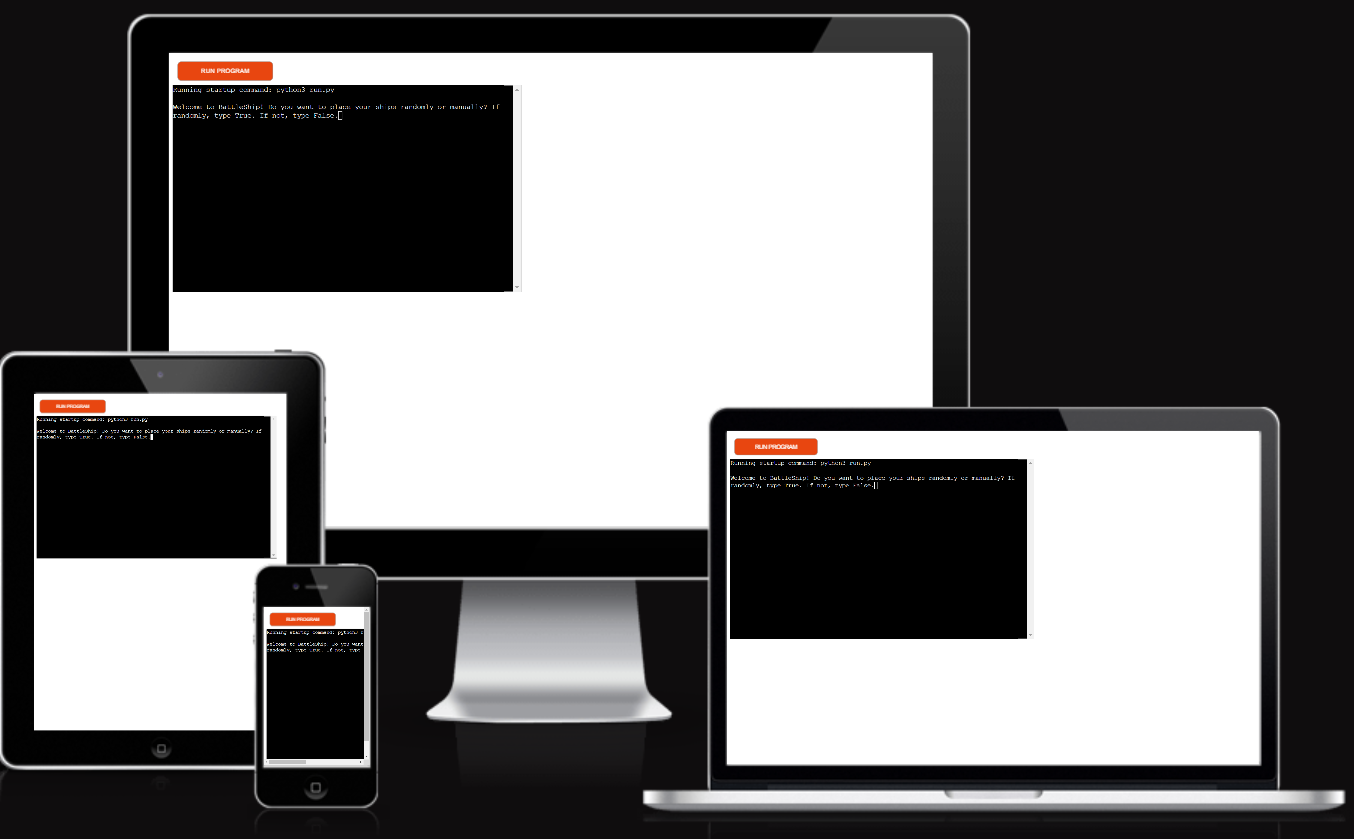
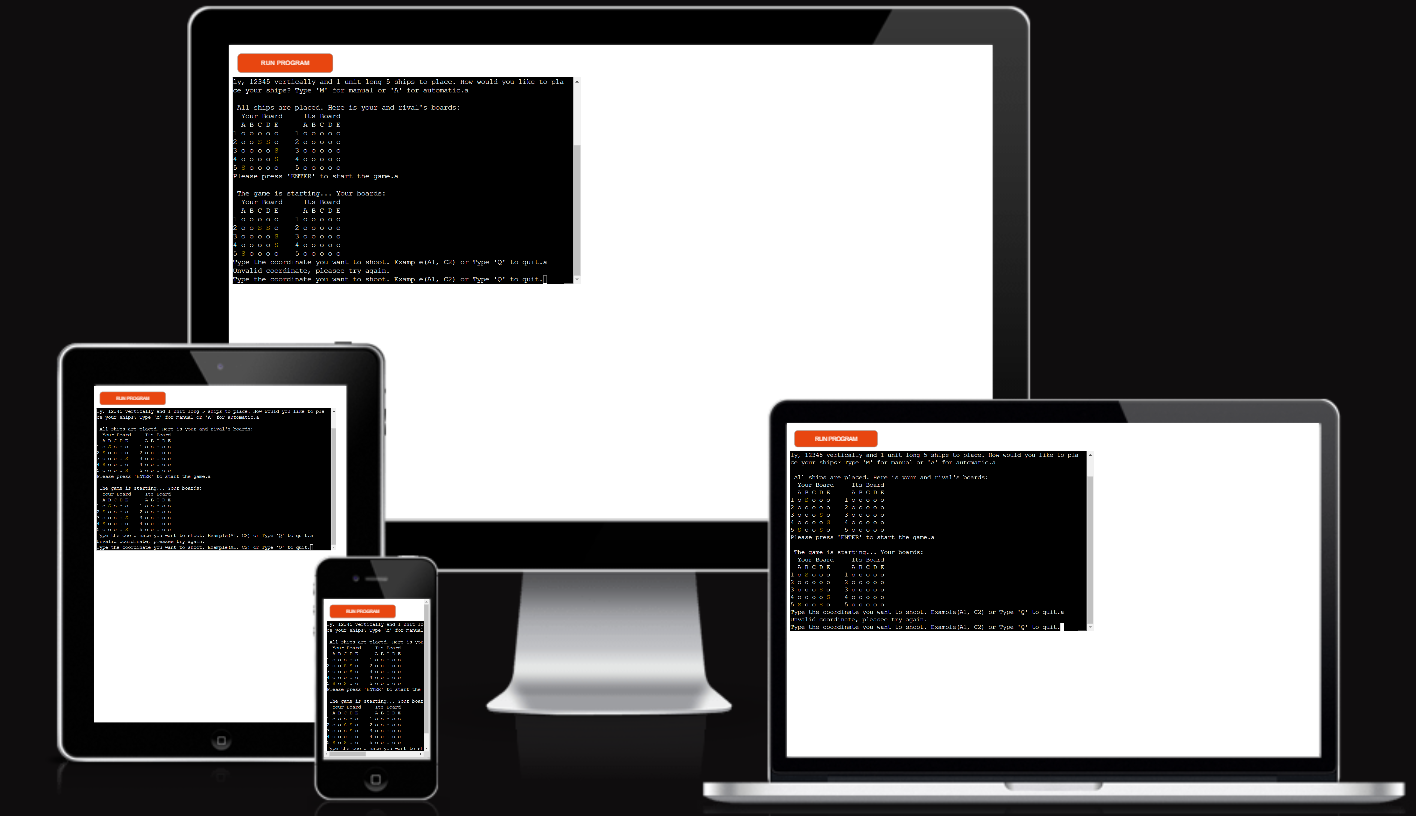
readme update

Changed region(s): [[0.0, 0.0, 0.9926, 1.0]]

diff --git a/README.md b/README.md
@@ -27,6 +27,24 @@ Ship placement: Manual or automatic options
 Hit and miss tracking
 Win condition: Sinking all 5 enemy ships
 
+### How to play:
+![start](/start.jpg)
+
+- There is greetings and instructions to start. 
+
+![manual](/manual.jpg)
+
+- The placing ship manually needs 5 coordinates.
+
+![finish](/finish.jpg)
+
+- It shows how to target a coordinate. When it is finished, the winner can be seen and there is a feature to start again.
+
+![quit](/quit.png)
+
+- It also has feature to quit all the time.
+
+
 ### Key Funnctions:
 
 1. `board()`: 
@@ -68,7 +86,8 @@ Game state tracking (hits, misses, ships remaining)
 ## Testing
 
 ![linter](/linter.jpg)
-These are the only errors that it has all codes. It's because of explanations or instructions for actions.
+
+- These are the only errors that it has all codes. It's because of explanations or instructions for actions.
 
 ## Bugs
 
@@ -93,7 +112,7 @@ I could not detect any yet.
 ## Credits
 
 - While I was trying to make this project easier I've checked many Battleship projects.
-- Got help from AI when preparing README.md
+- Got help from AI when preparing README.md and to understand classic Battleship game's logic.
 - Also checked old projects for README.md
 
 ### Codes   
